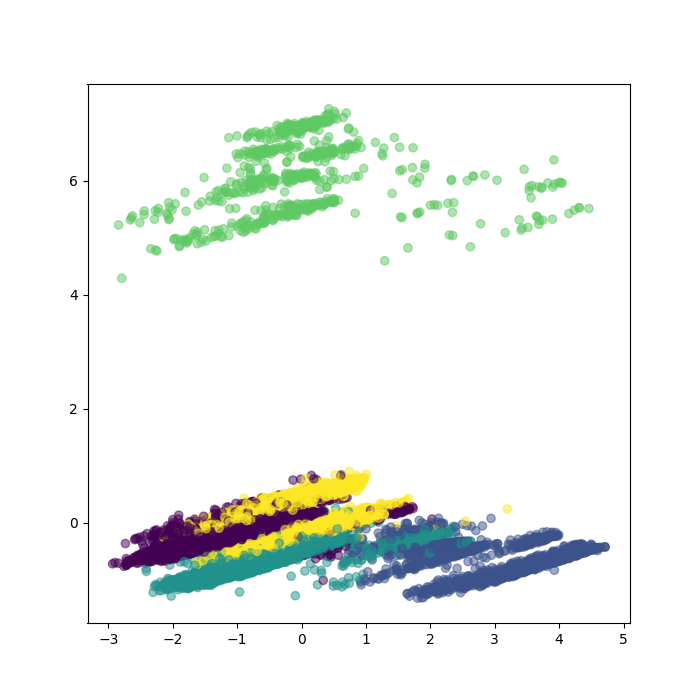
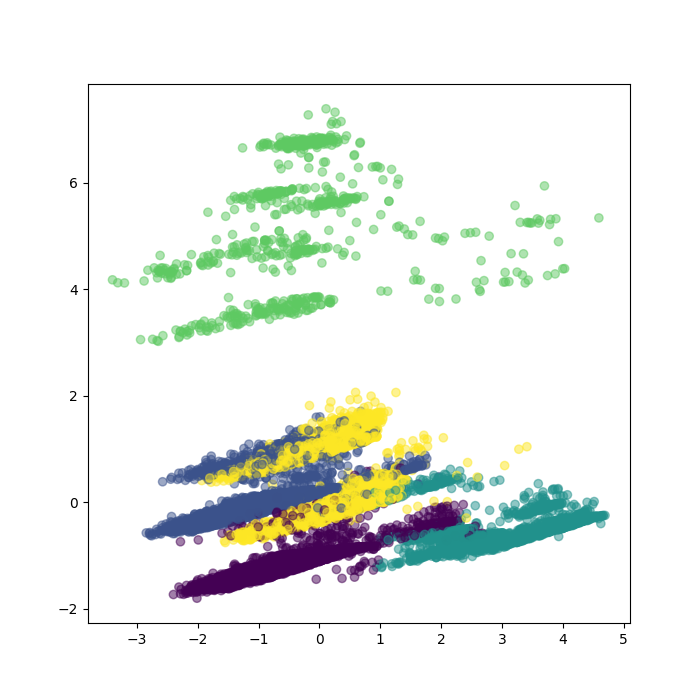
Mise en place des graphs pour mieux analyser les groupes formés par le Kmeans.

diff --git a/Kowalski.py b/Kowalski.py
@@ -1,6 +1,7 @@
 # -*- coding: utf-8 -*-
 import pandas as pd
 import numpy as np
+import os
 import seaborn as sn
 import matplotlib.pyplot as plt
 from sklearn import tree
@@ -114,17 +115,19 @@ def main():
     ##################################################
     ##################################################
 
-    # Ligne 1: on ne discretise pas; Ligne 2: on discretise
-    #df["situation_fam"] = df["situation_fam"].apply(lambda x: ord(x.lower()) - 96).astype(int)
-    df = discretization(df, ["categorie", "situation_fam", "sexe"]) 
-    
+   
     # On prend autant de démissionnaires que de non démissionnaires
     mini = min([df[df["demissionnaire"] == True].count().iloc[0], df[df["demissionnaire"] == False].count().iloc[0]])
     df = df.groupby(["demissionnaire"]).apply(lambda grp: grp.sample(n = mini)).reset_index(level = [0, 1], drop = True)
 
+    # Ligne 1: on ne discretise pas; Ligne 2: on discretise
+    #df["situation_fam"] = df["situation_fam"].apply(lambda x: ord(x.lower()) - 96).astype(int)
+    X_base, Y_base = get_XY(df, "d")
+    df = discretization(df, ["categorie", "situation_fam", "sexe"]) 
+    
     # Création des données X et Y
     X, Y = get_XY(df, "d")
-
+    
     # Scale des données
     scaler = StandardScaler()
     X_cols = X.columns
@@ -162,7 +165,7 @@ def main():
     # Clustering hiérarchique des données
     # make_dendrogram(X)
     make_elbow(X);
-    make_Kmeans(5, X, coord.iloc[:, :6], Y);
+    make_Kmeans(5, X, coord.iloc[:, :6], Y, X_base);
 
     ##################################################
     ##################################################
@@ -174,7 +177,10 @@ def main():
 
     #test_predict(X, Y)
 
-def make_Kmeans(k, X_raw, X_pca, Y):
+def make_Kmeans(k, X_raw, X_pca, Y, X_base):
+    if not os.path.exists('fig/kmeans'):
+		os.makedirs('fig/kmeans')
+
     model = KMeans(n_clusters = k, n_init = 20)
     #Compute cluster centers and predict cluster indices
     X_clustered = model.fit_predict(X_pca)
@@ -183,40 +189,21 @@ def make_Kmeans(k, X_raw, X_pca, Y):
     plt.figure(figsize = (7,7))
     labels = model.labels_
     plt.scatter(X_pca.iloc[:, 0],X_pca.iloc[:, 1], c = labels.astype(np.float), alpha = 0.5) 
-    plt.savefig("fig/Kmeans_" + str(k) + "_pca")
-    df_res = pd.DataFrame(Y.values, columns = ["realData"])
-    df_res["labels"] = labels
+    plt.savefig("fig/kmeans/Kmeans_" + str(k) + "_pca")
+
     model.fit(X_raw)
     X_raw = pd.DataFrame(scaler.inverse_transform(X_raw), columns = X_raw.columns)
     X_raw["labels"] = labels
+    X_base["labels"] = labels
     bins = np.linspace(-10, 10, 30)
     plt.clf()
-    for col in X_raw.columns:
-        # ------------------ A FAIRE ------------------------
-        print(col," --------------------------")
-        res = X_raw.groupby(["labels",col]).size()
-        print(res)
-        print("-------------------")
-        res = res.to_frame()
-        print("-------------------")
-        print(res)
-        print("-------------------")
-        res['values'] = res.values
-        print(res)
-        
-        print("----------RESSSSS---------")
-        print(res.loc[["values"]])
-        print(lelele)
-        # print ggplot(res, aes(x=col, weight = res.iloc[:,-1], fill = "labels")) + geom_bar() + theme_bw()
-        # plt.hist(res, bins, label = ["x", "y"])
-        # plt.legend(loc = "upper right")
-        # plt.show()
-        # plt.clf()
-
-        plt.figure(figsize=(10,6))
-        print(type(res))
-        sn.barplot(x=col, hue="labels", y=res.iloc[:,-1], data=res)
-        plt.show()
+    # Plot the number of entity for each column and grouped by labels
+    for col in X_base.columns:
+        if col != "labels":
+            res = X_base.groupby(["labels",col]).size().reset_index(name='counts')
+            plt.figure(figsize=(10,6))
+            sn.barplot(x=col, hue="labels", y="counts", data=res)
+            plt.savefig("fig/kmeans/"+ col)
 
 # Function called to plot the elbow graph for choosing the kmeans number of cluster.
 def make_elbow(X):
@@ -225,7 +212,6 @@ def make_elbow(X):
     for k in lst_k:
         kmeanModel = KMeans(n_clusters = k).fit(X)
         kmeanModel.fit(X)
-        # lst_rsq.append(np.average(np.min(cdist(X, kmeanModel.cluster_centers_, "euclidean"), axis=1)) / X.shape[0])
         lst_rsq.append(r_square(X.values, kmeanModel.cluster_centers_,kmeanModel.labels_,k))
 
     fig = plt.figure()
